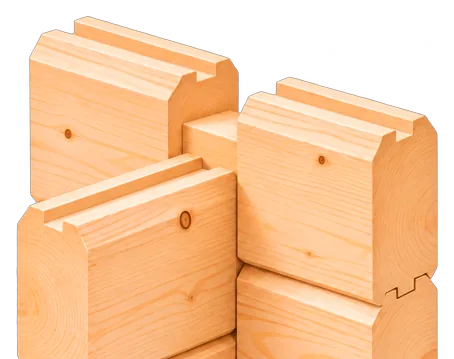
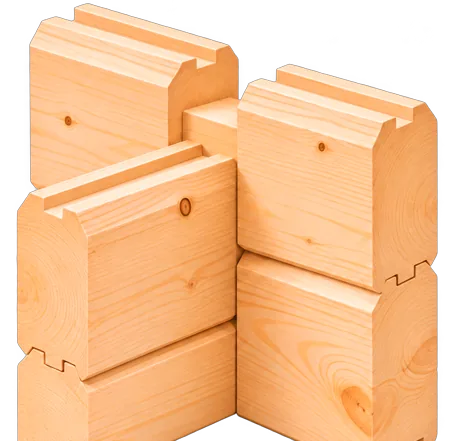
Inset the open step card and use the new timber joint.

diff --git a/src/app/globals.css b/src/app/globals.css
@@ -256,15 +256,15 @@ input::placeholder { color: #6c7363; }
 .process-mark { display: block; width: 36px; height: 2px; margin-top: 4px; background: #fff; transform: scaleX(0); transform-origin: left center; opacity: 0; transition: transform 420ms var(--process-ease), opacity 280ms ease; }
 .process-list li:not(:last-child)::before { content: ""; position: absolute; z-index: 0; top: 21px; left: 21px; right: calc(var(--process-gap) * -1 - 21px); height: 1px; background: #c9d3c0; pointer-events: none; }
 .process-list li:has(+ li[data-open])::before { right: calc(var(--process-gap) * -1); }
-.process-list li[data-open]::before { left: 0; right: 0; height: 0; background: none; border-top: 1px dashed rgba(255, 255, 255, 0.72); }
-.process-list li[data-open]:not(:last-child)::after { content: ""; position: absolute; z-index: 0; top: 21px; left: 100%; width: calc(var(--process-gap) + 21px); height: 1px; background: #c9d3c0; pointer-events: none; }
-.process-list li[data-open] { flex-grow: 2.7; min-height: 228px; background: var(--primary); color: #fff; }
-.process-list li[data-open] button { justify-content: flex-start; gap: 14px; min-height: 228px; padding: 0 58% 18px 0; }
+.process-list li[data-open]::before { top: 41px; left: 0; right: 0; height: 0; background: none; border-top: 1px dashed rgba(255, 255, 255, 0.72); }
+.process-list li[data-open]:not(:last-child)::after { content: ""; position: absolute; z-index: 0; top: 41px; left: 100%; width: calc(var(--process-gap) + 21px); height: 1px; background: #c9d3c0; pointer-events: none; }
+.process-list li[data-open] { flex-grow: 2.7; min-height: 248px; margin: -20px 0 0 -20px; padding: 20px 16px 20px 20px; background: var(--primary); color: #fff; }
+.process-list li[data-open] button { justify-content: flex-start; gap: 18px; min-height: 208px; padding: 0 54% 0 0; }
 .process-list li[data-open] h3 { font-size: 26px; font-weight: 550; color: #fff; letter-spacing: -0.04em; }
 .process-list li[data-open] p { color: #e7eee3; font-size: 15px; }
 .process-list li[data-open] .process-mark { transform: none; opacity: 1; }
-.process-list .process-photo { position: absolute; z-index: 0; top: 56px; right: 12px; bottom: 12px; width: 0; border-radius: 0; overflow: hidden; opacity: 0; background: transparent; pointer-events: none; transition: opacity 320ms ease; }
-.process-list li[data-open] .process-photo { width: calc(58% - 12px); opacity: 1; }
+.process-list .process-photo { position: absolute; z-index: 0; top: 74px; right: 18px; bottom: 18px; width: 0; border-radius: 0; overflow: hidden; opacity: 0; background: transparent; pointer-events: none; transition: opacity 320ms ease; }
+.process-list li[data-open] .process-photo { width: calc(52% - 10px); opacity: 1; }
 .process-list .process-photo-cut img { object-fit: contain; object-position: center; }
 @media (prefers-reduced-motion: reduce) {
   .process-list li, .process-list button, .process-mark, .process-list .process-photo { transition: none; }
@@ -398,8 +398,9 @@ input::placeholder { color: #6c7363; }
   .process-list li:not([data-open]):last-child::before { content: ""; bottom: 37px; }
   .process-list li[data-open]::before { top: 37px; right: auto; bottom: 0; left: 21px; width: 0; height: auto; border-top: 0; border-left: 1px dashed rgba(255, 255, 255, 0.72); }
   .process-list li[data-open]::after { content: none; }
-  .process-list li[data-open] { flex: none; width: 100%; min-height: 0; margin-top: 12px; }
-  .process-list li[data-open] button { min-height: 0; padding: 16px 48% 16px 0; }
+  .process-list li[data-open] { flex: none; width: 100%; min-height: 0; margin: 12px 0 0; padding: 0; }
+  .process-list li[data-open] button { min-height: 0; padding: 18px 46% 18px 18px; gap: 14px; }
+  .process-list li[data-open]::before { top: 39px; left: 39px; }
   .process-list li[data-open] h3 { font-size: 22px; }
   .process-list li[data-open] .process-photo { top: 12px; right: 8px; bottom: 12px; width: 46%; }
   .final-section > div { padding: 35px; }
